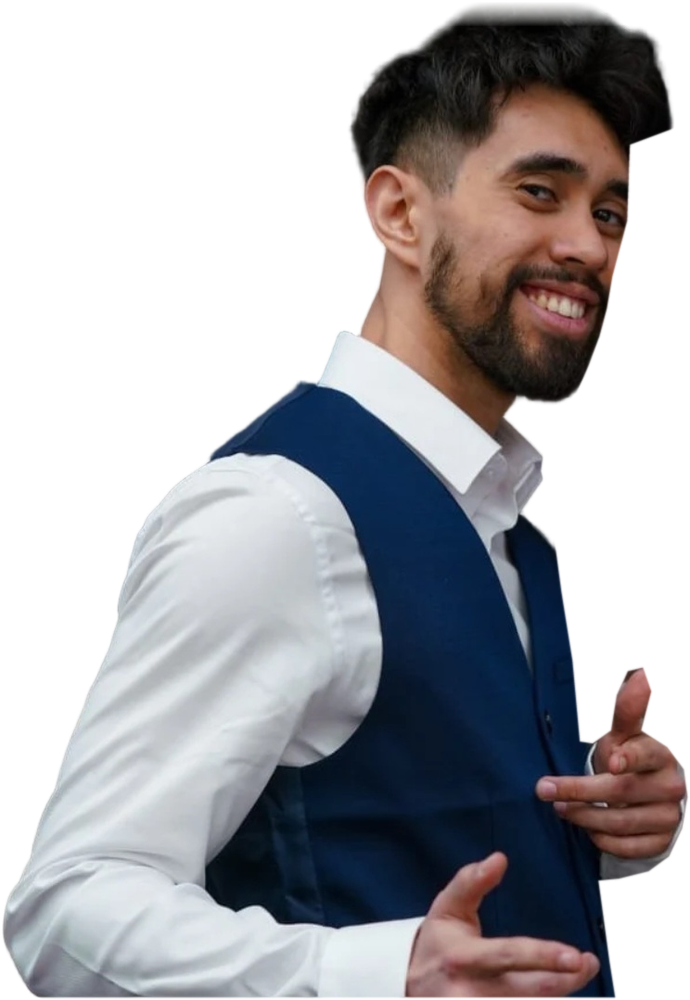
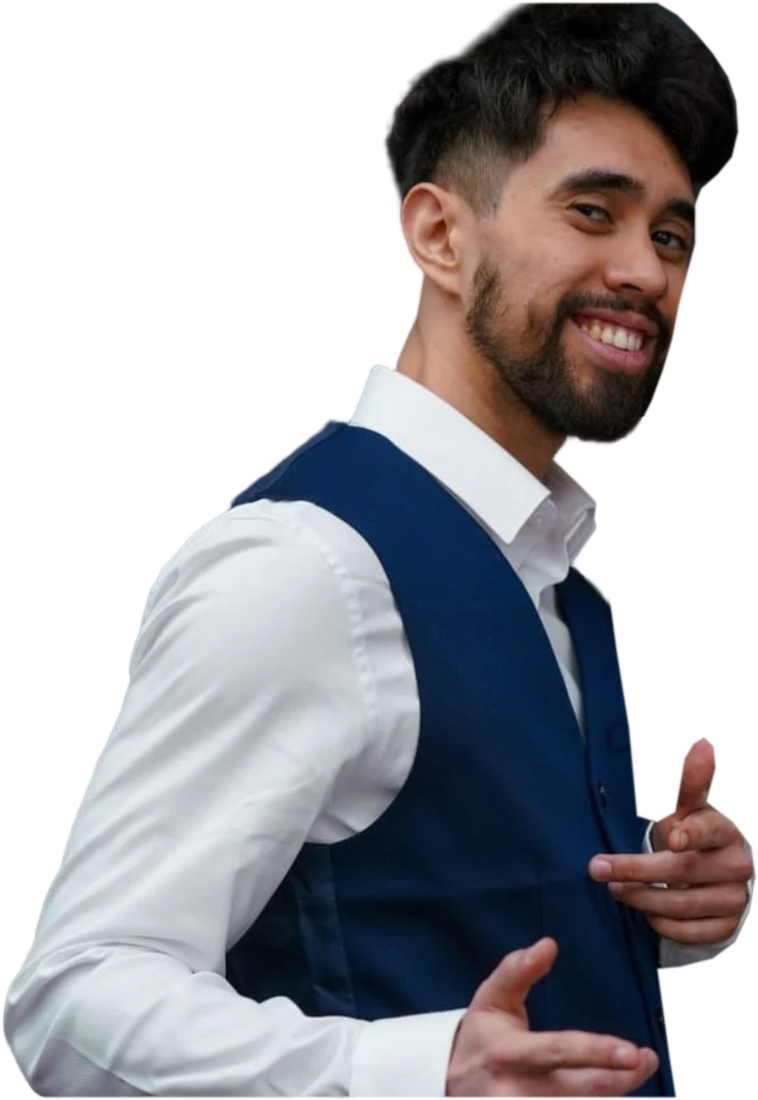
Maquette : détourage À propos affiné (cheveux, joue, pouce)
Claude-Session: https://claude.ai/code/session_01EaWs2GBdkJMFMGUVVU6DzK

diff --git a/src/views/HomeComponent.vue b/src/views/HomeComponent.vue
@@ -431,8 +431,8 @@ export default {
 	.art-plate p { font-size: 14.5px; line-height: 1.6; color: #5b5b66; margin-top: 4px; }
 	.art-plate .art-plate-design { color: #9535d7; font-weight: 600; margin-top: 10px; }
 	.art-plate-design svg { display: inline-block; vertical-align: -2px; margin-right: 6px; }
-	.about-arch .art-about-photo { width: auto; height: 480px; left: -40px; transform: none; }
-	@media (max-width: 600px) { .about-arch .art-about-photo { height: 330px; left: -30px; } .piste-home-l .about-chip-1 { top: 6px; left: -18px; } }
+	.about-arch .art-about-photo { width: auto; height: 560px; left: -70px; bottom: -10px; transform: none; }
+	@media (max-width: 600px) { .about-arch .art-about-photo { height: 385px; left: -48px; bottom: -6px; } .piste-home-l .about-chip-1 { top: 6px; left: -18px; } }
 	@media (max-width: 768px) { .piste-dance.piste-dance-l { padding-top: 90px; } .piste-dance .art-moonwalk { height: 80px; } }
 	/* Hors écran compact (piste allégée) : photo + 3 mouvements sur une ligne */
 	.art-compact { display: grid; grid-template-columns: 280px 1fr; gap: 28px; align-items: center; margin-top: 36px; }
